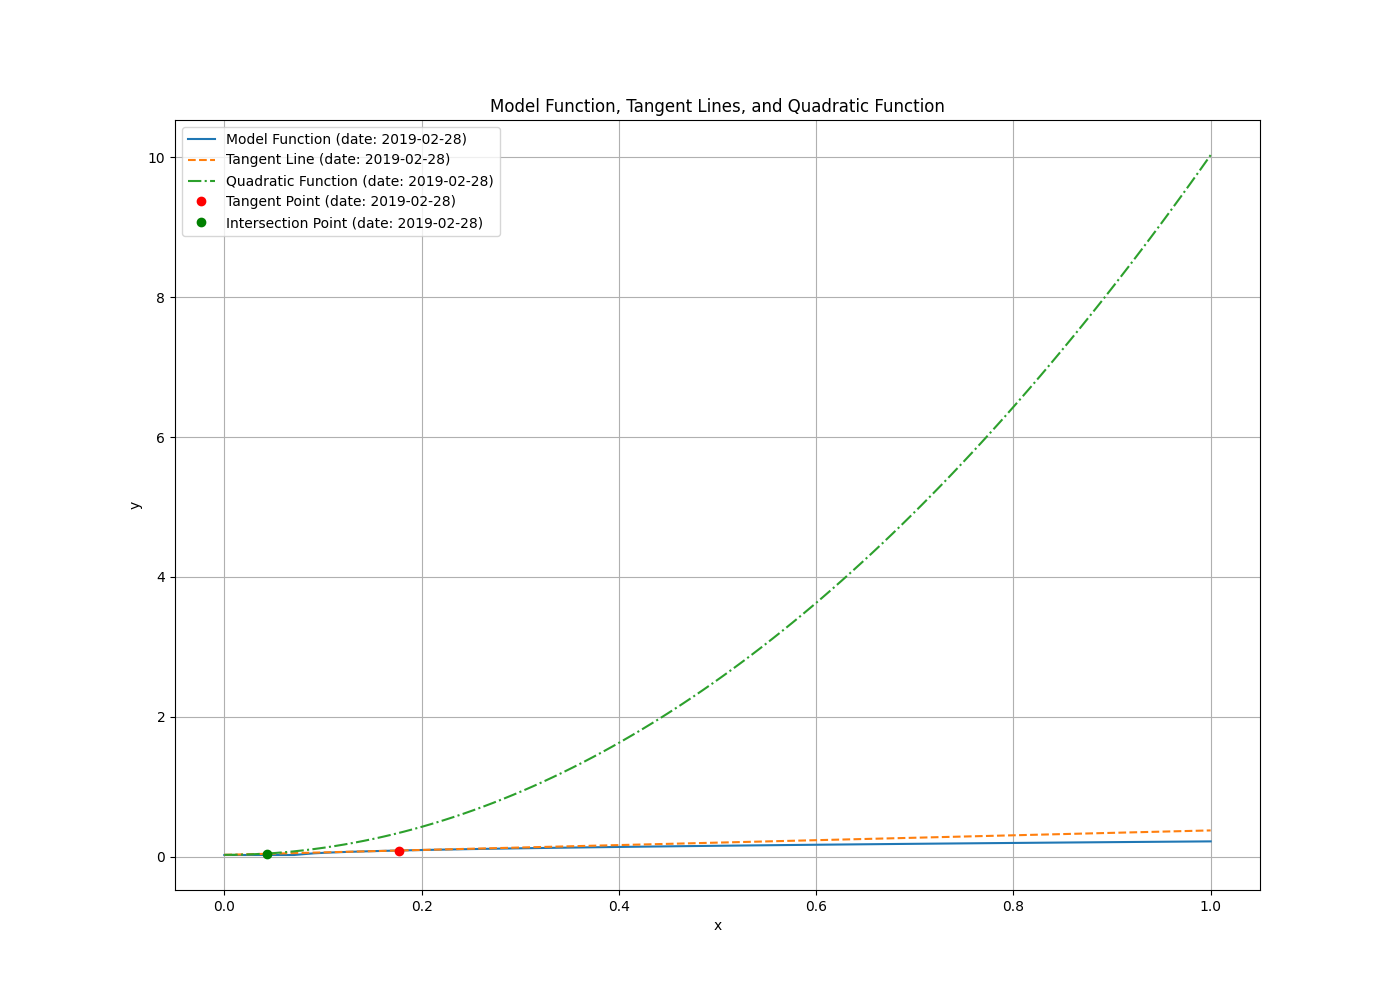
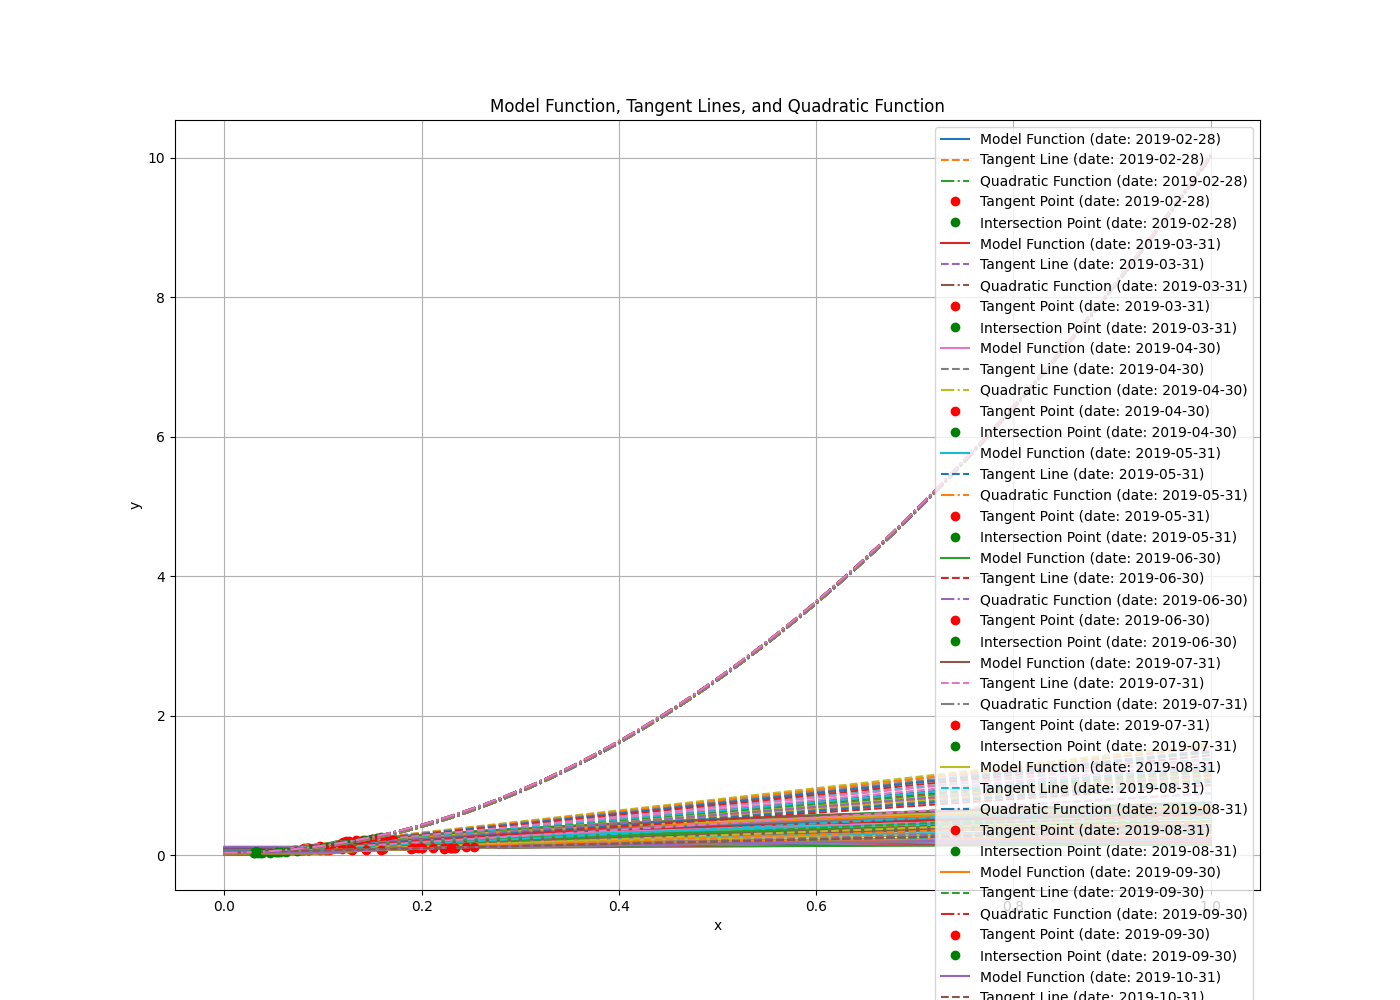
We nailed it

diff --git a/calculate_alpha.py b/calculate_alpha.py
@@ -31,7 +31,7 @@ alpha_values = []
 plt.figure(figsize=(14, 10))
 
 # Loop through the first few rows for visualization purposes
-for idx, row in data.head(1).iterrows():
+for idx, row in data.iterrows():
     # Define a range of x values
     x = np.linspace(0, 1, 100)
     
@@ -40,13 +40,14 @@ for idx, row in data.head(1).iterrows():
     
     # Find the tangent point where the derivative of the model equals the slope
     def tangent_condition(x):
-        return model_derivative(x, row['a'], row['b']) - (row['a'] / (2 * np.sqrt(x - row['b'])))
+        return model_derivative(x, row['a'], row['b']) - (model_function(x, row['a'], row['b'], row['c']) - row['risk_free_rate']) / x
     
-    tangent_x = fsolve(tangent_condition, row['b'] + 0.1)[0]
+    tangent_x = fsolve(tangent_condition, row['b'] + 0.01)[0]
     tangent_y = model_function(tangent_x, row['a'], row['b'], row['c'])
     
     m = model_derivative(tangent_x, row['a'], row['b'])
-    
+    print(m, (tangent_y - row['risk_free_rate']) / tangent_x)
+
     # Linear function values
     linear_y = linear_function(x, (tangent_y - row['risk_free_rate']) / tangent_x, row['risk_free_rate'])
     
@@ -57,7 +58,7 @@ for idx, row in data.head(1).iterrows():
     def intersection_condition(x):
         return quadratic_function(x, util_a, row['risk_free_rate']) - linear_function(x, m, tangent_y - m * tangent_x)
     
-    util_x = fsolve(intersection_condition, 1)[0]
+    util_x = fsolve(intersection_condition, 10)[0]
     util_y = quadratic_function(util_x, util_a, row['risk_free_rate'])
     
     # Calculate alpha values
@@ -65,7 +66,7 @@ for idx, row in data.head(1).iterrows():
     alpha_y = (util_y - row['risk_free_rate']) / (tangent_y - row['risk_free_rate'])
     
     # Store alpha values
-    alpha_values.append([idx.date(), alpha_x, alpha_y])
+    alpha_values.append([idx.date(), alpha_x, alpha_y, m])
     
     # Plot the model function
     plt.plot(x, model_y, label=f'Model Function (date: {idx.date()})')
@@ -83,7 +84,7 @@ for idx, row in data.head(1).iterrows():
     plt.plot(util_x, util_y, 'go', label=f'Intersection Point (date: {idx.date()})')
 
 # Save the alpha values to a CSV file
-alpha_df = pd.DataFrame(alpha_values, columns=['date', 'alpha_x', 'alpha_y'])
+alpha_df = pd.DataFrame(alpha_values, columns=['date', 'alpha_x', 'alpha_y', 'slope'])
 alpha_df.to_csv('predicted_alpha_values.csv', index=False)
 
 plt.xlabel('x')
